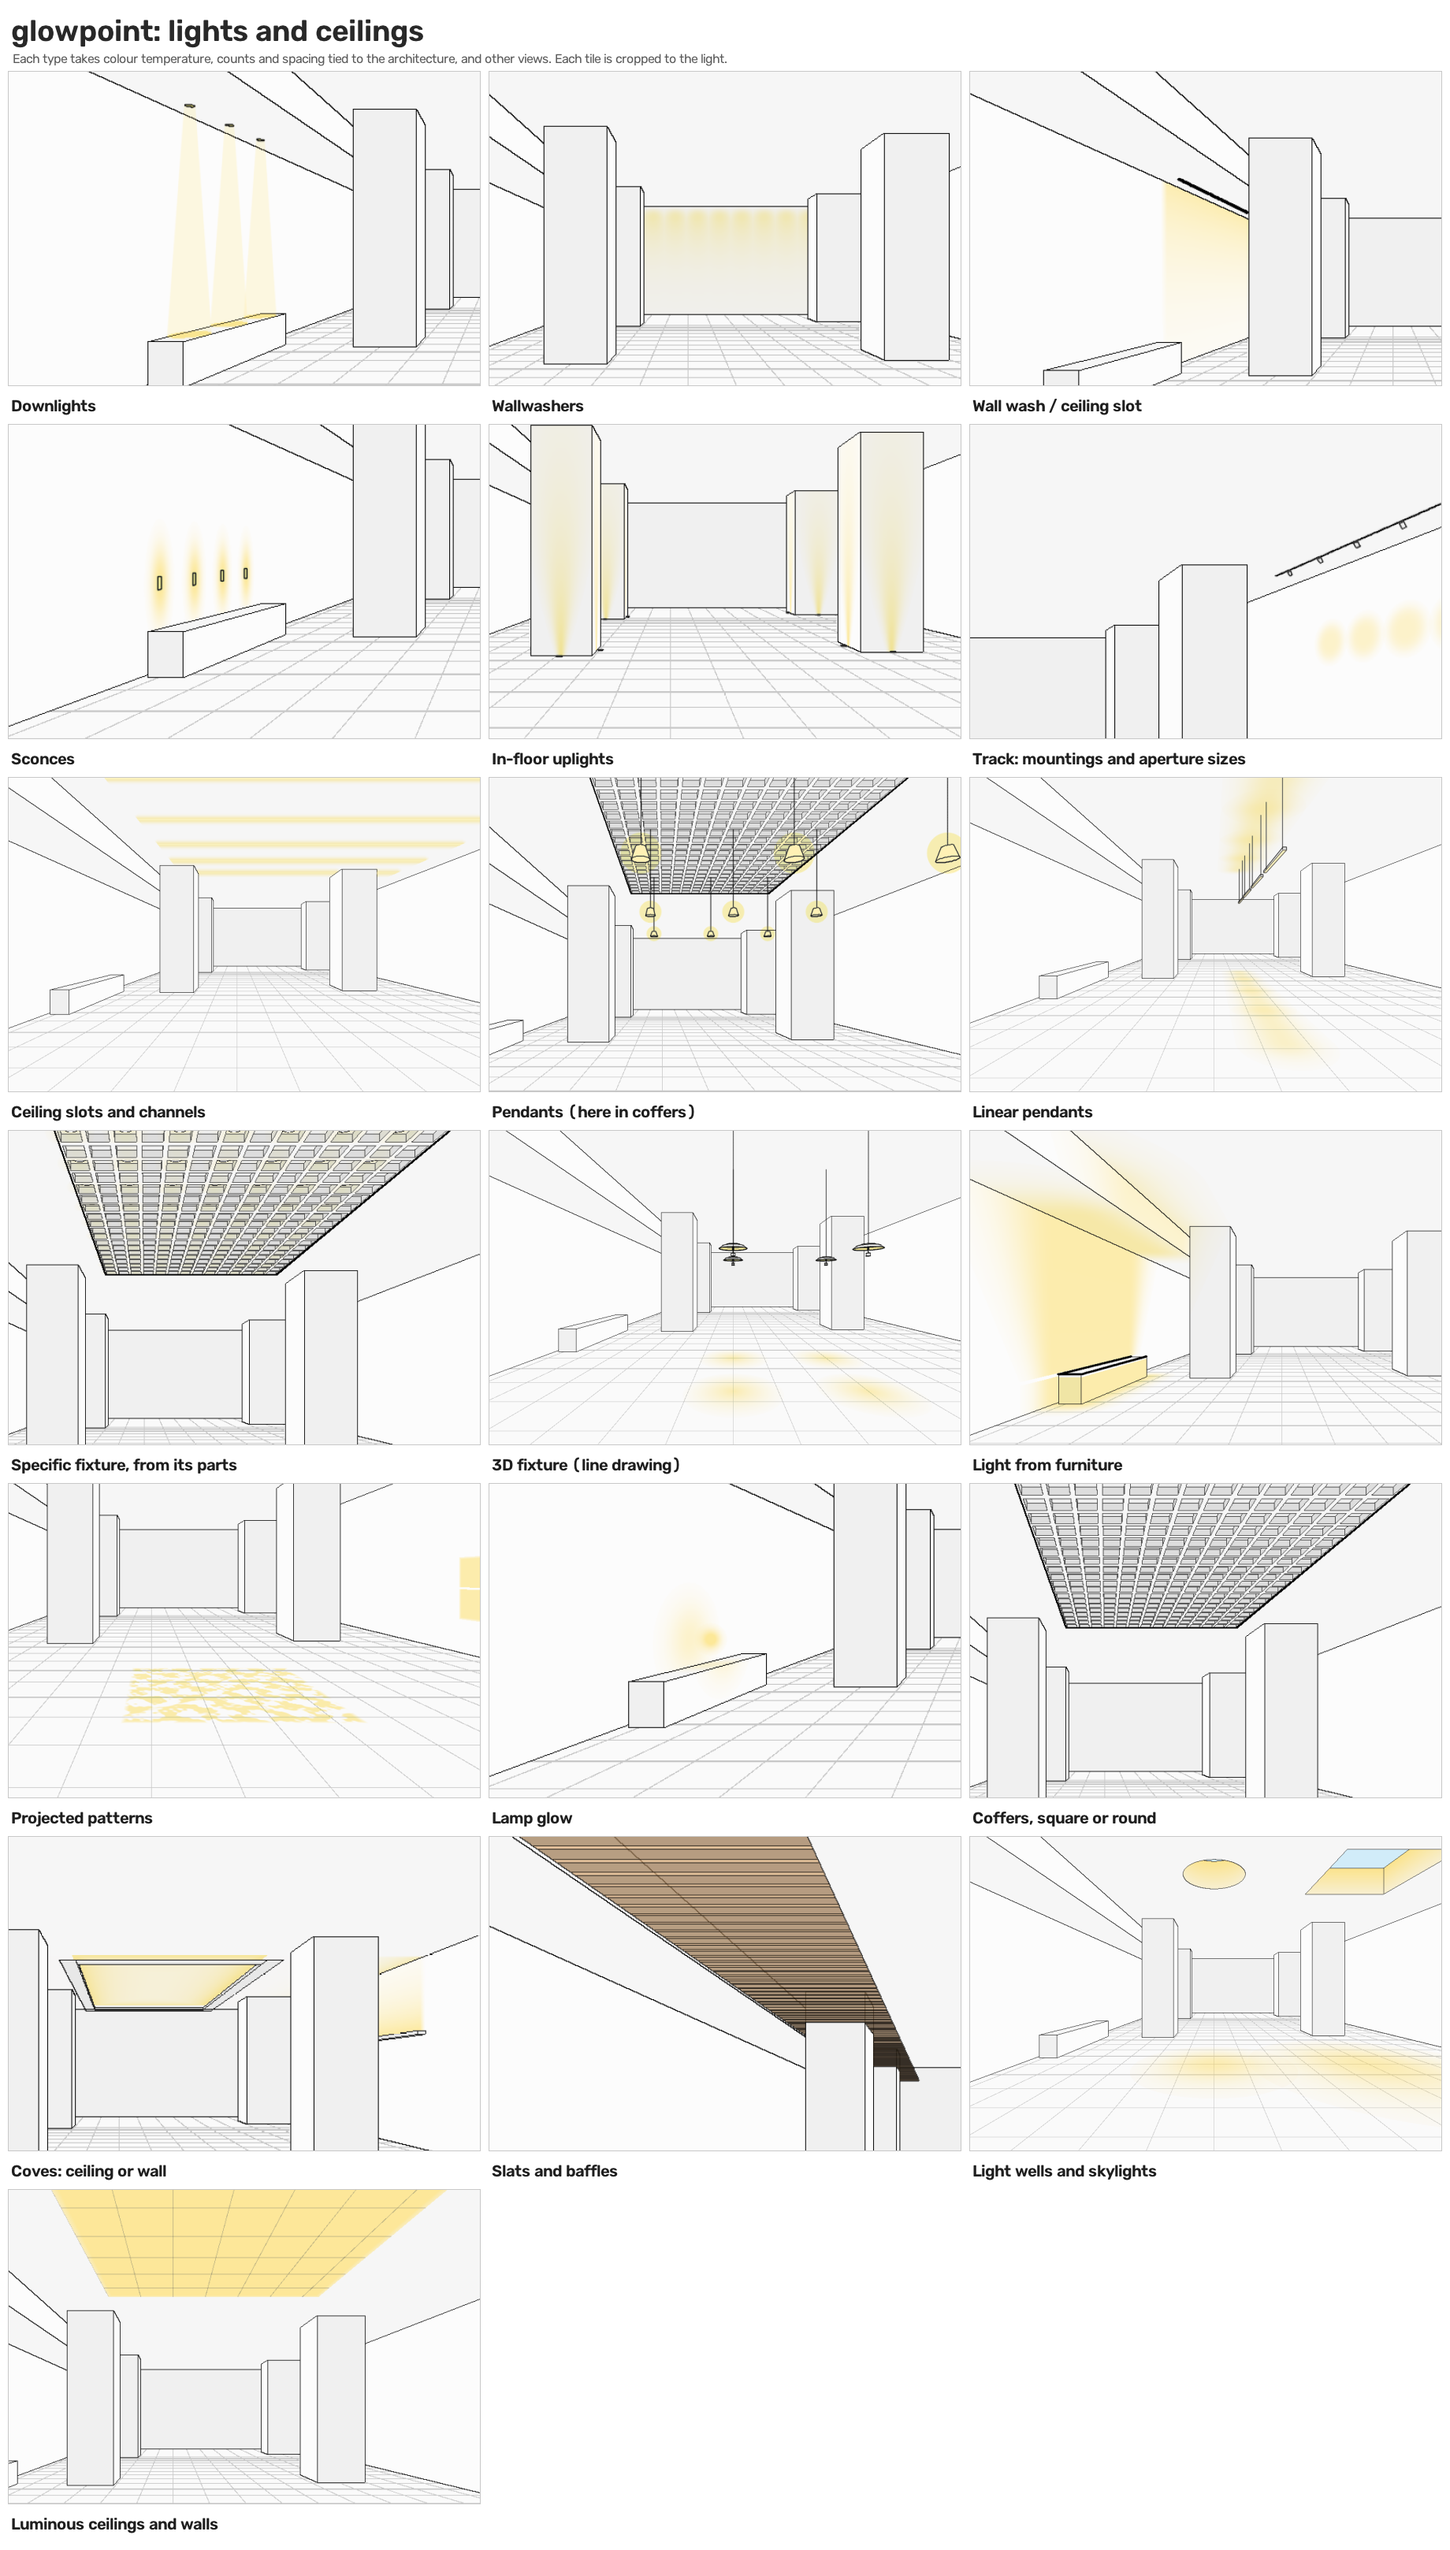
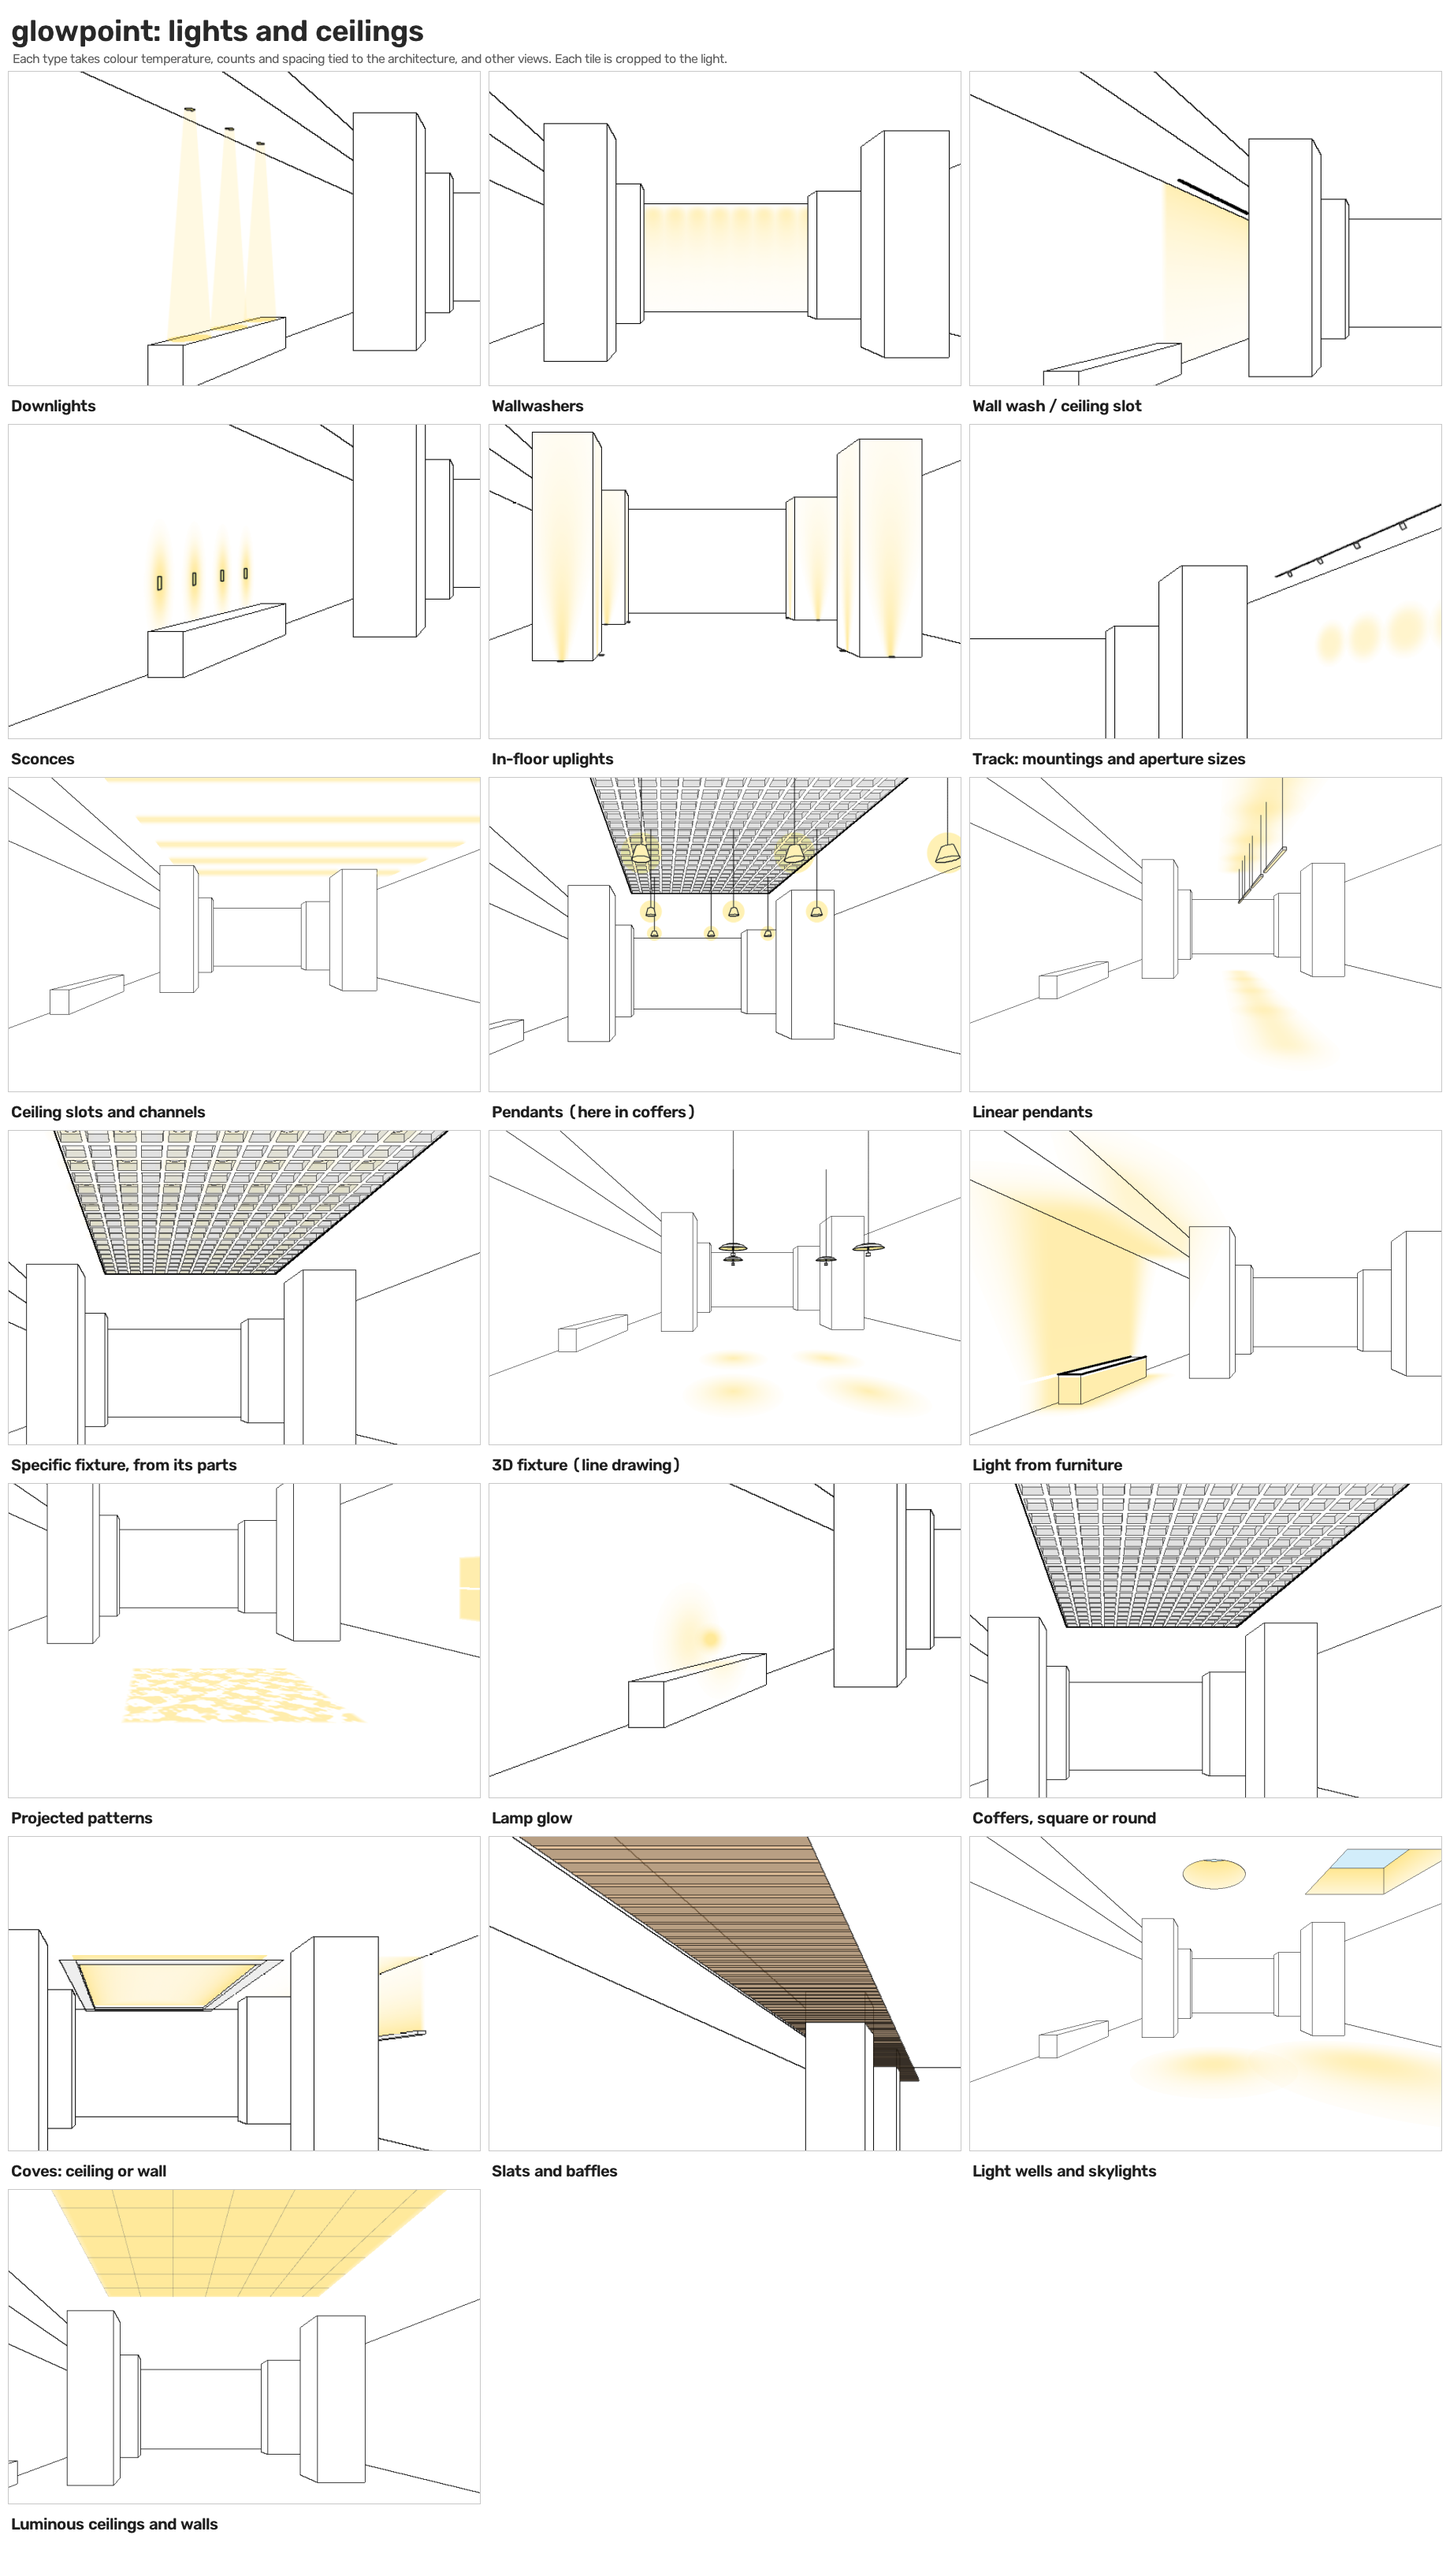
Unshaded line drawings by default; thicker lines on large images
Claude-Session: https://claude.ai/code/session_01ViGgkM3rdRMVeUUupcn6VX

diff --git a/glowpoint/linework.py b/glowpoint/linework.py
@@ -4,11 +4,13 @@ import numpy as np
 import cv2
 
 
-def draw(m, shape=(700, 1050), floor_grid=4.0):
+def draw(m, shape=(700, 1050), floor_grid=4.0, shade=True):
+    """shade: light grey tones per surface direction; floor_grid: a grid on the floor every N ft (0 = none).
+    Renders use an unshaded drawing without a grid unless design.json asks ("linework": {...})."""
     ids, P, dep = m.raycast(shape)
     H, W = shape
     img = np.full((H, W, 3), 255, np.uint8)
-    for i, s in enumerate(m.surfaces):
+    for i, s in enumerate(m.surfaces if shade else []):
         k = ids == i
         if not k.any(): continue
         tone = {1: 246, 0: 252, 2: 240, 3: 243, 4: 244}[s["axis"]]
@@ -23,5 +25,7 @@ def draw(m, shape=(700, 1050), floor_grid=4.0):
                 img[(ids == fl[0]) & (dd < 0.6*g) & (g < 1.5)] = 200
     e = np.zeros((H, W), bool)
     e[:, 1:] |= ids[:, 1:] != ids[:, :-1]; e[1:, :] |= ids[1:, :] != ids[:-1, :]
+    if max(H, W) > 1400:                                   # large images: thicker lines, so they read at the same size
+        e = cv2.dilate(e.astype(np.uint8), np.ones((2, 2), np.uint8)).astype(bool)
     img[e] = 20
     return img

diff --git a/glowpoint/render.py b/glowpoint/render.py
@@ -162,7 +162,8 @@ def render(project, check=False, out_name="concept.png", design_file="design.jso
         m.set_camera(camera)
     if base is None:
         shape = tuple(size) if size else ref_shape
-        base = LW.draw(m, shape)
+        lw = design.get("linework", {})        # a line drawing: unshaded and without a grid, unless asked
+        base = LW.draw(m, shape, floor_grid=lw.get("grid", 0), shade=lw.get("shade", False))
     os.makedirs(os.path.join(project, "out"), exist_ok=True)
     stem = os.path.splitext(out_name)[0]
     suffix = "" if out_name == "concept.png" else "_" + stem       # each view keeps its own check and positions files

diff --git a/glowpoint/__init__.py b/glowpoint/__init__.py
@@ -1,2 +1,2 @@
 """glowpoint: lighting concepts on perspective drawings."""
-__version__ = "0.20.0"
+__version__ = "0.20.1"

diff --git a/README.md b/README.md
@@ -838,6 +838,8 @@ Expressions run in a restricted Python evaluator with only these names (and Pyth
 - **check.png** (with `--check`) — every surface tinted and named, with a 4 ft grid. If the grid follows the lines of the drawing, the model is correct.
 - **positions.csv** — one row for each light: layer, type, surface, X/Y/Z (ft), and `visible`. Use it to check the design and to give positions to others. `visible` is about the fixture point itself: an uplight hidden behind a bench is `False`, although the column face that it lights can be in view.
 
+Line drawings (`--linework`, and views without an image) are unshaded: white surfaces and black edges, with no floor grid. In design.json, `"linework": {"shade": true, "grid": 4}` adds light grey tones per surface direction and a floor grid every 4 ft.
+
 `visible_faces()` always means visible in the drawing's own camera, also when you render another view. Thus a design is the same in all views.
 
 ### Several views of one model

diff --git a/CHANGELOG.md b/CHANGELOG.md
@@ -3,6 +3,9 @@
 Newest first. Each version says what a user or an agent will notice. The version is in
 `glowpoint/__init__.py`, and `python3 -m glowpoint.doctor` prints it.
 
+## 0.20.1 — 2026-11-17
+- Line drawings are unshaded (white surfaces, black edges, no floor grid) unless design.json asks (`"linework": {"shade": true, "grid": 4}`); thicker lines on large images. Menu picture rebuilt.
+
 ## 0.20.0 — 2026-11-17
 - `views add --line`: place a view from model edges (post edges, wall tops, beam edges) as well as points; it calibrates the new image first and fits the camera by least squares. Tested on two real photos of one room taken from opposite ends.
 - Calibration: a vanishing point more than 10 image widths away is treated as at infinity (an almost parallel set of lines gave a wrong lens). `calibrate_image()` for other tools.
